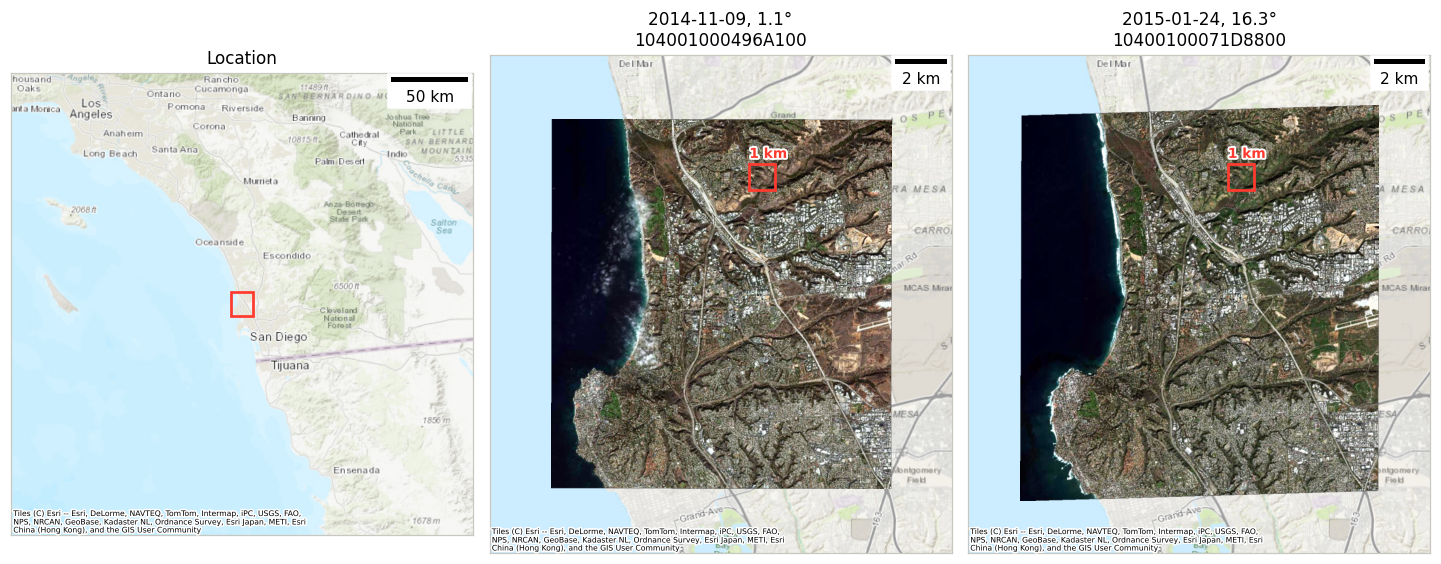
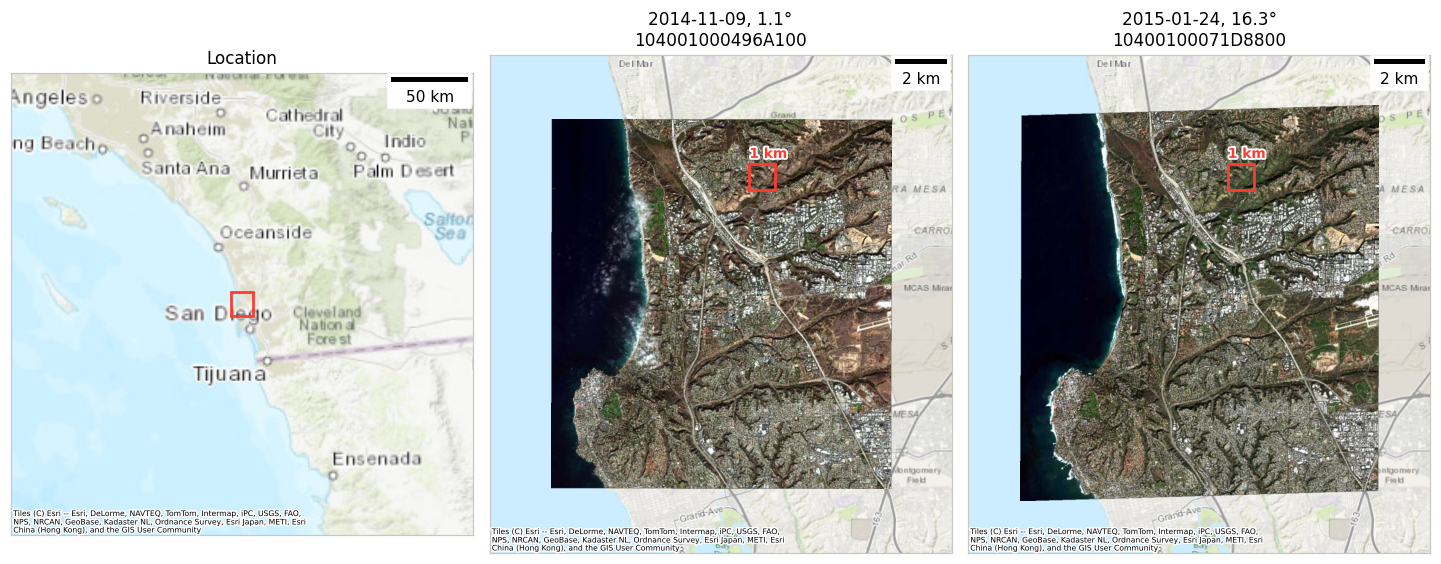
Enlarge the place names on the location maps
Esri's tiles draw place names at a fixed size in tile pixels, and
contextily's automatic zoom fetched tiles 1.5 to 2 times finer than the
figures' pixels, so the names on the location maps were too small to
read. The location maps now use one zoom level coarser, which doubles
the names and leaves only the larger places. The scene panels keep the
automatic zoom: the image covers most of their basemap, and at the
coarser zoom the names along its edges were cut off.

diff --git a/scripts/docs_figures/make_scene_maps.py b/scripts/docs_figures/make_scene_maps.py
@@ -180,9 +180,17 @@ def frame(ax, title):
     ax.set_title(title, fontsize=11)
 
 
-def basemap(ax, srs, zoom="auto"):
-    """Esri's World Topo Map under whatever the axes show, with its attribution."""
-    cx.add_basemap(ax, crs=srs, source=BASEMAP, zoom=zoom, attribution_size=5, zorder=0)
+def basemap(ax, srs, zoom_adjust=0):
+    """Esri's World Topo Map under whatever the axes show, with its attribution.
+
+    The tiles' place names are a fixed number of tile pixels tall. contextily's
+    automatic zoom fetches tiles about 1.5 to 2 times finer than these figures'
+    pixels, which shrinks the names to half or two-thirds of their size. The
+    location maps pass zoom_adjust=-1, which doubles them. The scene panels keep
+    the automatic zoom: there the image covers most of the basemap, and at the
+    coarser zoom the names along its edges are cut off.
+    """
+    cx.add_basemap(ax, crs=srs, source=BASEMAP, zoom_adjust=zoom_adjust, attribution_size=5, zorder=0)
 
 
 def draw_scene(ax, path, srs, box, box_label, title, bounds):
@@ -208,7 +216,7 @@ def draw_context(ax, srs, scene, half_km):
     cxm, cym = (scene[0] + scene[2]) / 2, (scene[1] + scene[3]) / 2
     ax.set_xlim(cxm - half_km * 1000, cxm + half_km * 1000)
     ax.set_ylim(cym - half_km * 1000, cym + half_km * 1000)
-    basemap(ax, srs)
+    basemap(ax, srs, zoom_adjust=-1)
     ax.add_patch(Rectangle((scene[0], scene[1]), scene[2] - scene[0], scene[3] - scene[1], fill=False,
                            edgecolor=OUTLINE, linewidth=1.8, zorder=3))
     # As the notebooks and asp-plot draw them (the axes are in meters).
